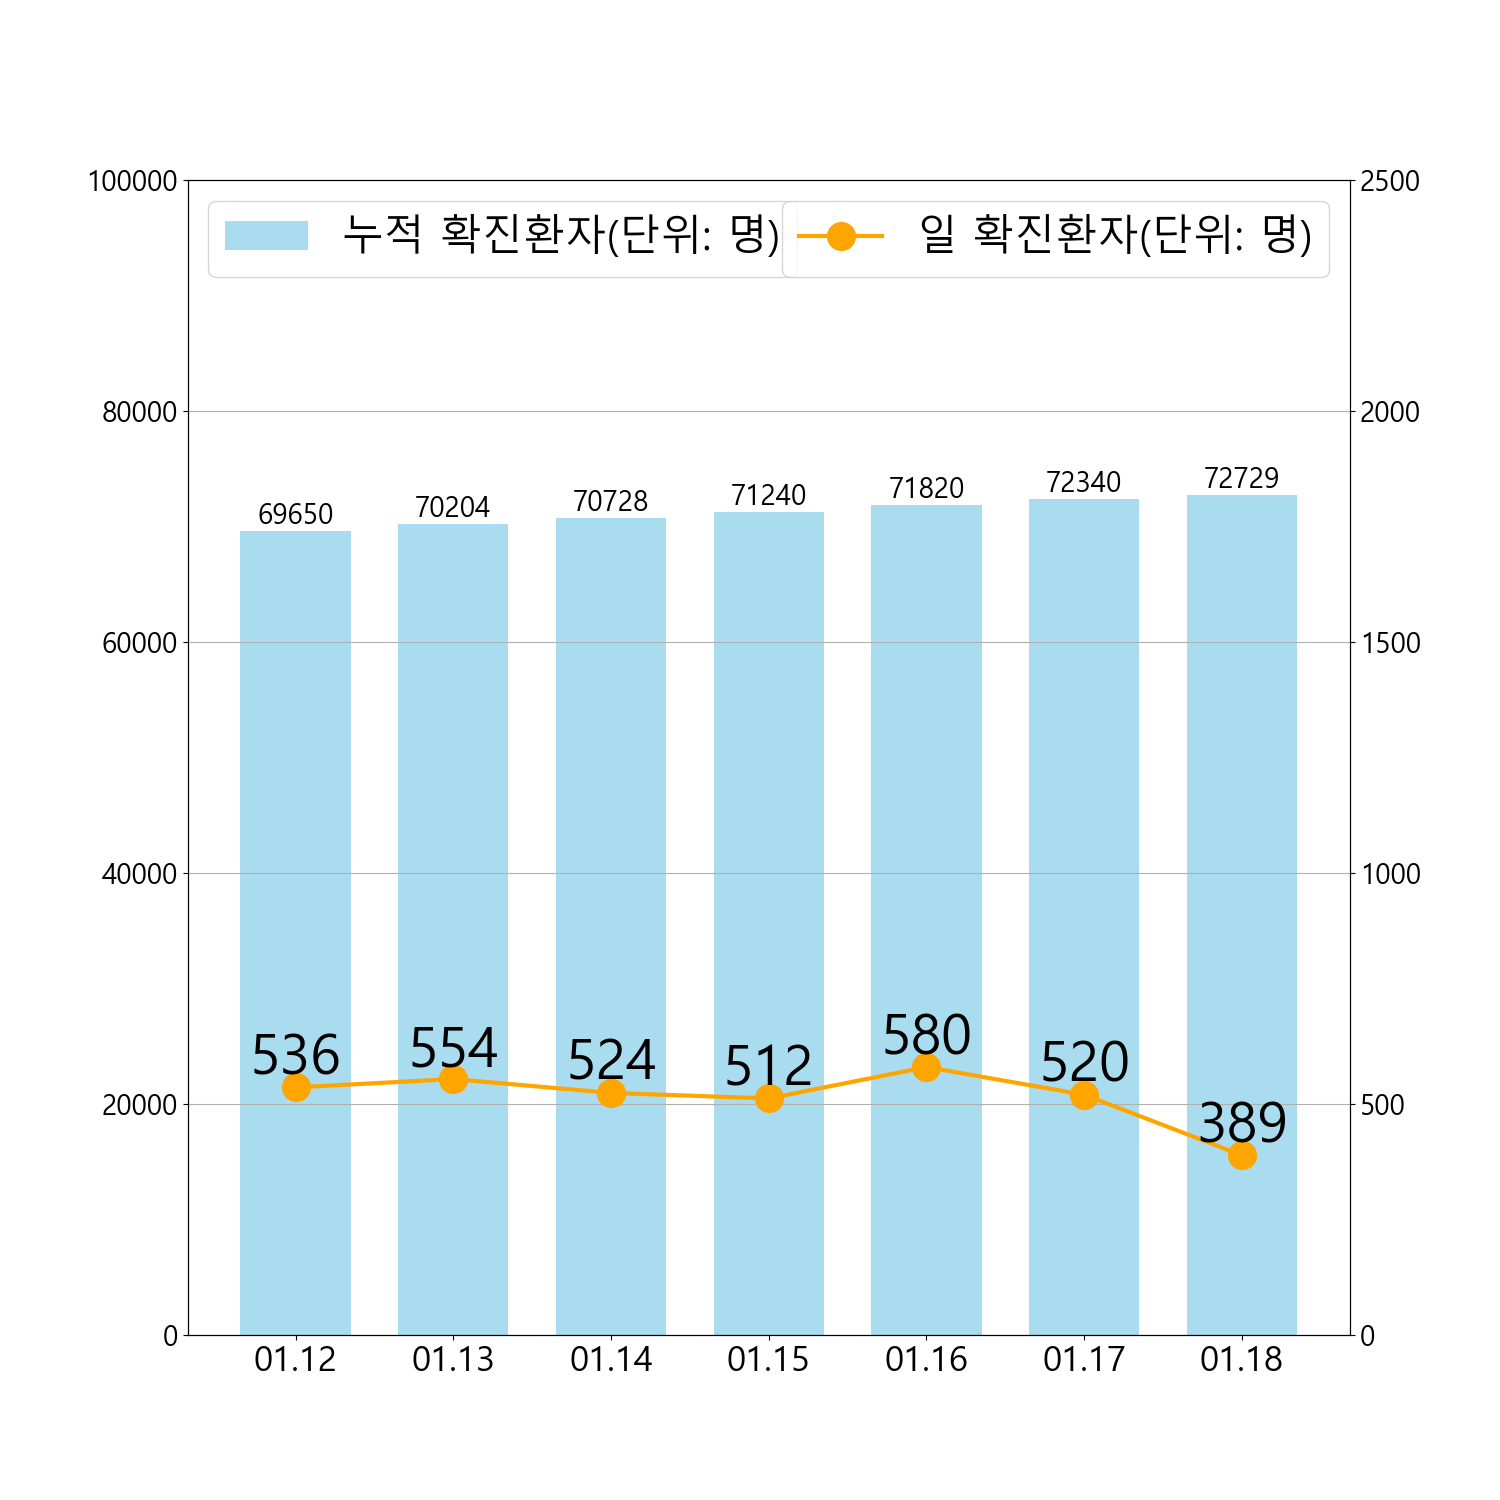
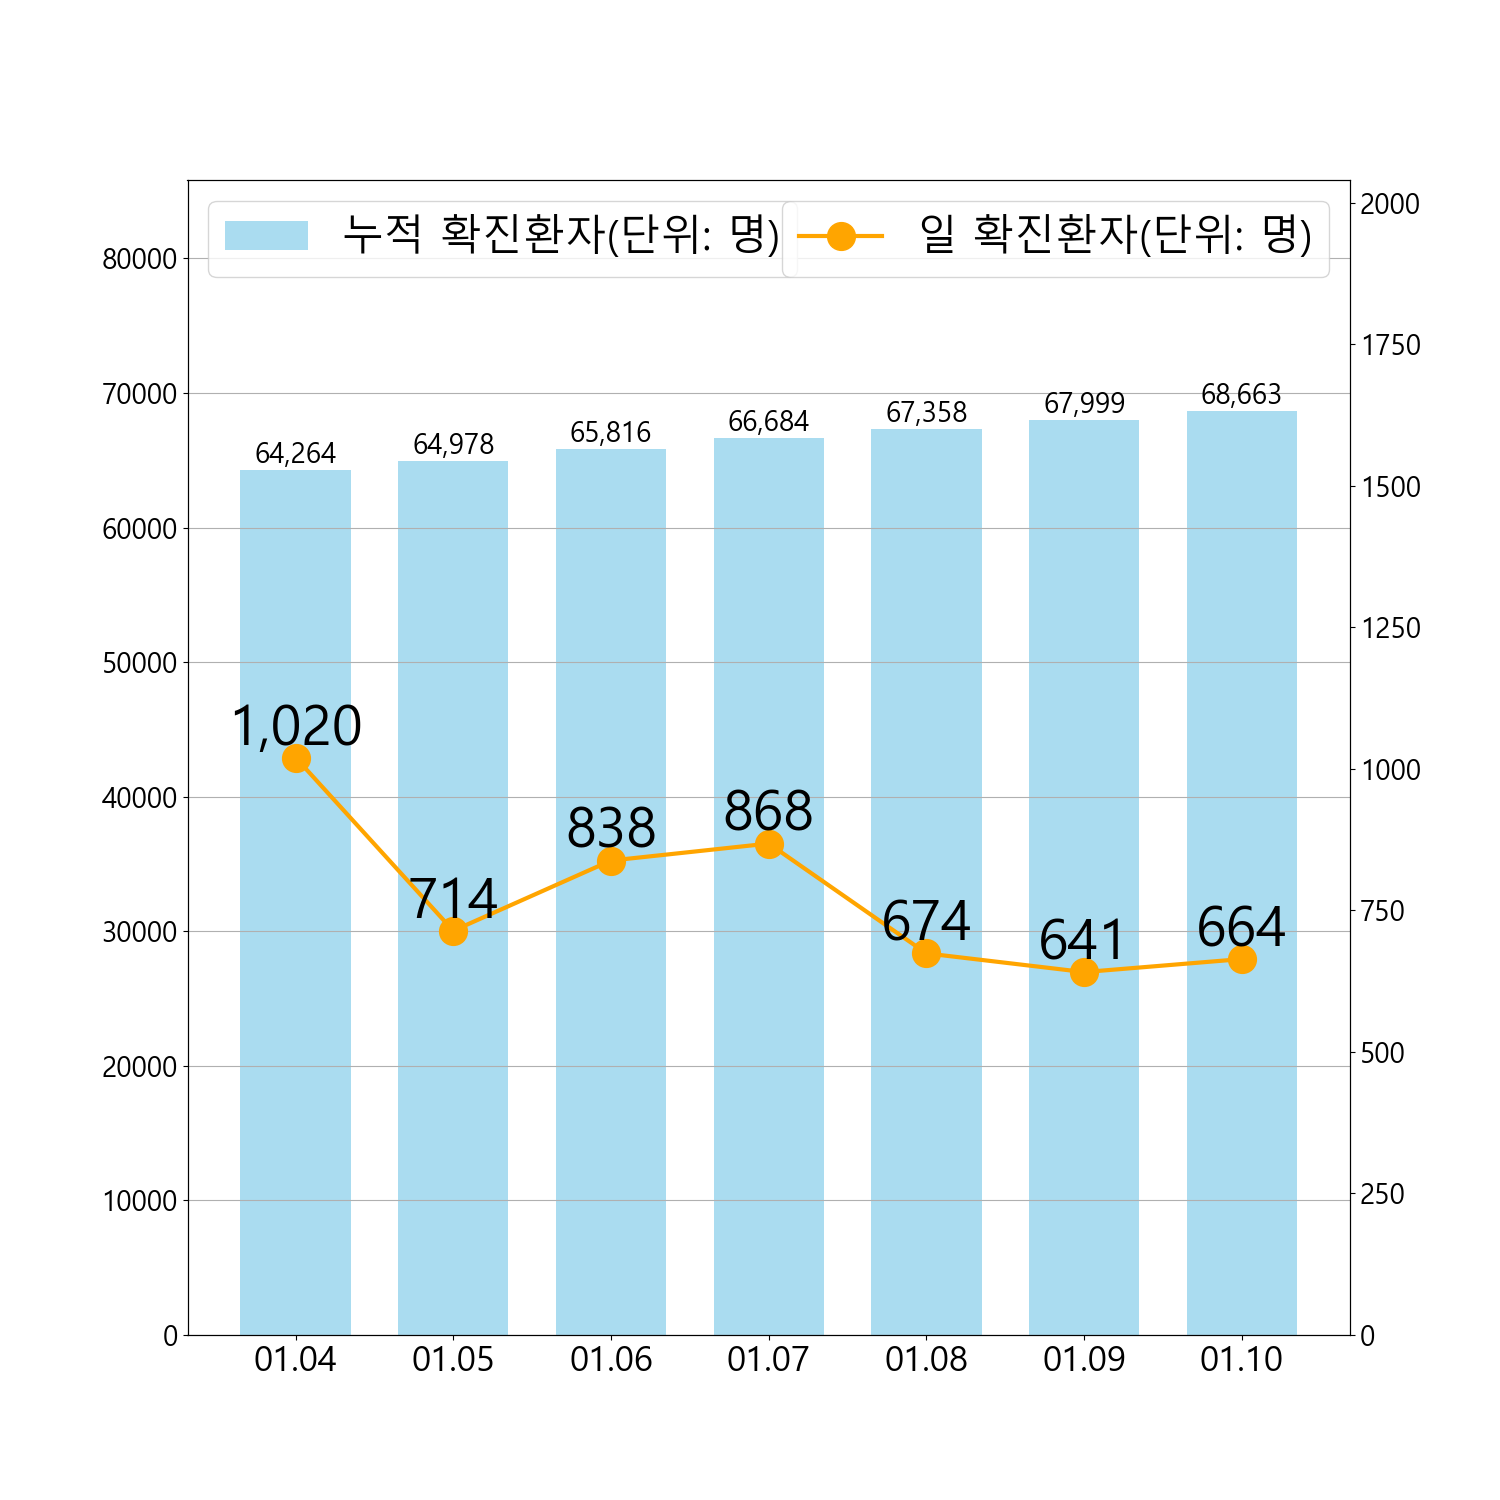
Update func1, 2 그래프 자동 범위. 숫자 반점.

diff --git a/Bots/function1.py b/Bots/function1.py
@@ -74,6 +74,7 @@ class Function1:
         for i in range(1, 8):
             dates.append((start + datetime.timedelta(i)).strftime("%m.%d"))
         x = np.array(dates)
+
         y1 = np.array(self.adds)
         y2 = np.array(self.sums)
 
@@ -82,20 +83,26 @@ class Function1:
         plt.xticks(fontsize='25')
 
         ax1.bar(x, y2, color='skyblue', alpha=0.7, width=0.7, label='누적 확진환자(단위: 명)')
-        ax1.set_ylim(0, 100000)
+        #fixme
+        ax1.set_ylim(0, self.sums[-1] * 1.25)
         ax1.legend(loc='upper left', fontsize=30)
         for i, v in enumerate(x):
-            ax1.text(v, y2[i], y2[i], fontsize=20, color='black', horizontalalignment='center',
+            # fixme
+            ax1.text(v, y2[i], format(int(y2[i]), ","), fontsize=20, color='black', horizontalalignment='center',
                      verticalalignment='bottom')
 
         ax2 = ax1.twinx()
         ax2.plot(x, y1, color='orange', marker='o', dash_capstyle='round', dash_joinstyle='round',
                  label='일 확진환자(단위: 명)', linewidth='3', markersize='20')
         ax2.legend(loc='upper right', fontsize=30)
-        ax2.set_ylim(0, 2500)
+        ylim_range = self.adds[:]
+        ylim_range.sort()
+        # fixme
+        ax2.set_ylim(0, ylim_range[-1] * 2)
 
         for i, v in enumerate(x):
-            ax2.text(v, y1[i], y1[i], fontsize=40, color='black', horizontalalignment='center',
+            # fixme
+            ax2.text(v, y1[i], format(int(y1[i]), ","), fontsize=40, color='black', horizontalalignment='center',
                      verticalalignment='bottom')
 
         # plt.show()

diff --git a/Bots/function2.py b/Bots/function2.py
@@ -74,15 +74,16 @@ class Function2:
         line2 = ax2.plot(x, y2, color='blue', marker='o', dash_capstyle='round', dash_joinstyle='round',
                          label='실시간 확진 환자(단위: 명)', linewidth='3', markersize='10')
         for i, v in enumerate(x):
-            ax2.text(v, y2[i], y2[i], fontsize=40, color='black', horizontalalignment='center',
+            #fixme
+            ax2.text(v, y2[i], format(int(y2[i]), ","), fontsize=40, color='black', horizontalalignment='center',
                      verticalalignment='bottom')
-
+        #fixme
         if int(self.data[-1]) > int(self.data[-2]):
-            ax1.set_ylim(0, (int(self.data[-1]) + 100))
-            ax2.set_ylim(0, (int(self.data[-1]) + 100))
+            ax1.set_ylim(0, (int(self.data[-1])*1.3))
+            ax2.set_ylim(0, (int(self.data[-1])*1.3))
         else:
-            ax1.set_ylim(0, (int(self.data[-2]) + 100))
-            ax2.set_ylim(0, (int(self.data[-2]) + 100))
+            ax1.set_ylim(0, (int(self.data[-2])*1.3))
+            ax2.set_ylim(0, (int(self.data[-2])*1.3))
         ax1.set_yticklabels([])
 
         lines = line1 + line2
@@ -97,4 +98,4 @@ if __name__ == '__main__':
         now = int(datetime.datetime.now().strftime("%H"))
         Function2(now).getCovidRealTime()
     elif sys.argv[1] == '--demo':
-        Function2(7).getCovidRealTime()
+        Function2(22).getCovidRealTime()
